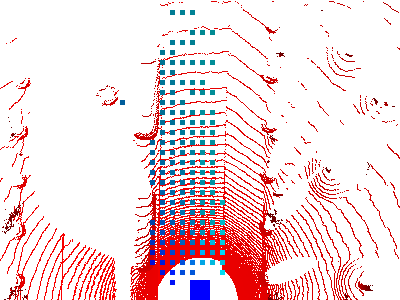
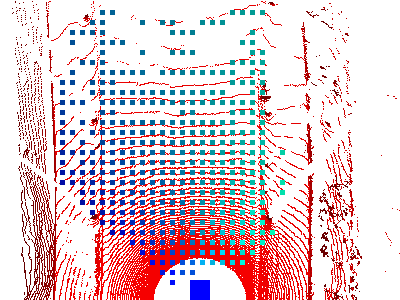
Adding Feature Copy Previous BEV Drivable Area Label for accurate Drivable Area Labelling

diff --git a/main.py b/main.py
@@ -31,6 +31,8 @@ import yaml
 
 from scipy.spatial.transform import Rotation as R
 
+#os.environ[ "QT_QPA_PLATFORM" ] = "offscreen"
+
 os.environ["QT_QPA_PLATFORM_PLUGIN_PATH"] = QLibraryInfo.location(
     QLibraryInfo.PluginsPath
 )
@@ -158,6 +160,10 @@ class Iwindow(QtWidgets.QMainWindow, gui):
         #self.fix_holes_DA_label_button.clicked.connect( self.fix_holes_drivable_area_label )
         self.generates_BEV_DA_Label_from_LiDAR.clicked.connect( self.generates_bev_DA_label_projected_to_lidar_pcd )
         self.save_Drivable_Area_label.clicked.connect( self.save_drivable_area_label )
+
+        self.copy_BEV_DA_Label_from_Previous_Frame.clicked.connect( self.copy_bev_drivable_area_label_from_previous_lidar_frame_label )
+        self.load_BEV_Drivable_Area_Label.clicked.connect( self.load_bev_drivable_area_label_from_folder )
+
         self.clear_all_attention_points_button.clicked.connect(self.delete_all_attention_points )
         self.zoom_plus.clicked.connect(self.image_viewer.zoomPlus)
         self.zoom_minus.clicked.connect(self.image_viewer.zoomMinus)
@@ -286,6 +292,8 @@ class Iwindow(QtWidgets.QMainWindow, gui):
 
                 self.previous_frame_drivable_area_image = self.bev_drivable_area_image
 
+                self.previous_frame_drivable_area_image_bev_label = self.bev_drivable_area_label
+
                 self.bev_drivable_area_previous_image_q_label_image_viewer.loadImageFromArray(self.previous_frame_drivable_area_image)
 
                 
@@ -325,6 +333,8 @@ class Iwindow(QtWidgets.QMainWindow, gui):
             if self.bev_drivable_area_image is not None :
                 self.previous_frame_drivable_area_image = self.bev_drivable_area_image
 
+                self.previous_frame_drivable_area_image_bev_label = self.bev_drivable_area_label
+
                 self.bev_drivable_area_previous_image_q_label_image_viewer.loadImageFromArray( self.previous_frame_drivable_area_image )
                 
             self.items[self.cntr].setSelected(True)
@@ -360,6 +370,8 @@ class Iwindow(QtWidgets.QMainWindow, gui):
 
         if self.bev_drivable_area_image is not None :
             self.previous_frame_drivable_area_image = self.bev_drivable_area_image
+
+            self.previous_frame_drivable_area_image_bev_label = self.bev_drivable_area_label
 
             self.bev_drivable_area_previous_image_q_label_image_viewer.loadImageFromArray( self.previous_frame_drivable_area_image )
 
@@ -1089,7 +1101,9 @@ class Iwindow(QtWidgets.QMainWindow, gui):
 
                 self.bev_drivable_area_image_in_rgb_image = new_image_drivable_area_probability_mask_rgb_image_DA_label
 
-                self.bev_drivable_area_label = np.array( [ [False if (( (i[0] == 0 ) & ( i[1] ==0 )) | ( i == [255,255,255]).all() ) else True for i in j ] for j in self.bev_drivable_area_image_in_rgb_image ] )
+                #self.bev_drivable_area_label = np.array( [ [False if (( (i[0] == 0 ) & ( i[1] ==0 )) | ( i == [255,255,255]).all() ) else True for i in j ] for j in self.bev_drivable_area_image_in_rgb_image ] )
+
+                self.bev_drivable_area_label = np.array( [ [False if (( (i[0] == 0 ) & ( i[1] ==0 )) | ( (i[0] > 0) & (i[1] < 255 ) ) | ( i == [255,255,255]).all() ) else True for i in j ] for j in self.bev_drivable_area_image_in_rgb_image ] )
 
                 self.bev_drivable_area_image_viewer.loadImageFromArray( self.bev_drivable_area_image )
                 
@@ -1139,7 +1153,7 @@ class Iwindow(QtWidgets.QMainWindow, gui):
 
                 self.bev_drivable_area_image_in_rgb_image = new_image_drivable_area_probability_mask_rgb_image_DA_label
 
-                self.bev_drivable_area_label = np.array( [ [False if ( ((i[0] == 0) & ( i[1] == 0)) | ( i == [ 255, 255 , 255])).all() else True for i in j ] for j in self.bev_drivable_area_image_in_rgb_image ] )
+                self.bev_drivable_area_label = np.array( [ [False if ( ((i[0] == 0) & ( i[1] == 0)) | (( i[0] > 0 ) & ( i[1] < 255 )) |( i == [ 255, 255 , 255]).all()) else True for i in j ] for j in self.bev_drivable_area_image_in_rgb_image ] )
 
                 self.bev_drivable_area_image_viewer.loadImageFromArray( self.bev_drivable_area_image )
                 
@@ -1165,7 +1179,104 @@ class Iwindow(QtWidgets.QMainWindow, gui):
             self.is_add_drivable_area_in_bev_drivable_area = False 
                      
 
-                 
+    def copy_bev_drivable_area_label_from_previous_lidar_frame_label( self ) :
+
+        if self.previous_frame_drivable_area_image_bev_label is None :
+
+            QtWidgets.QMessageBox.warning(self, 'Cannot Load Drivable Area Label from Previous LiDAR Frame', 'Please make sure Labelling BEV Drivable Area in previous LiDAR frame first' )
+
+        else :
+
+            self.bev_drivable_area_label = self.previous_frame_drivable_area_image_bev_label
+
+            bev_drivable_area_label_in_rgb_image = np.array( [[[ 0 , 255 , 0] if i == True else [ 255 , 255 , 255] for i in j  ] for j in self.bev_drivable_area_label ] ).astype( np.uint8)
+
+            # Visualize previous BEV DA Label to current LiDAR frame visualization
+
+            bev_drivable_area_label_in_lidar_point_visualization_size = cv2.resize( bev_drivable_area_label_in_rgb_image , dsize= ( self.bev_drivable_area_image.shape[1] , self.bev_drivable_area_image.shape[0]) , interpolation=cv2.INTER_NEAREST)
+
+            assert (bev_drivable_area_label_in_lidar_point_visualization_size.shape == self.bev_drivable_area_image.shape)#.all()
+
+            for bev_drivable_area_label_x_coordinate in range( self.bev_drivable_area_image.shape[0] ) :
+
+                for bev_drivable_area_label_y_coordinate in range( self.bev_drivable_area_image.shape[1] ) :
+
+                    if bev_drivable_area_label_in_lidar_point_visualization_size[ bev_drivable_area_label_x_coordinate ][ bev_drivable_area_label_y_coordinate ][0] == 255 :
+
+                        # Then the grid in BEV_Drivabel_Area_Label_X_Coordinate and BEV_Drivable_Area_Label_Y_Coordinate is not DA area
+
+                        bev_drivable_area_label_in_lidar_point_visualization_size[ bev_drivable_area_label_x_coordinate ][ bev_drivable_area_label_y_coordinate ] = self.bev_drivable_area_image[ bev_drivable_area_label_x_coordinate ][ bev_drivable_area_label_y_coordinate ]
+
+
+            self.bev_drivable_area_image = bev_drivable_area_label_in_lidar_point_visualization_size.astype( np.uint8 )
+
+            self.bev_drivable_area_image_viewer.loadImageFromArray( self.bev_drivable_area_image )
+
+            # Give notification finished predicting Drivable Area Label in Image
+            msg = QtWidgets.QMessageBox()
+            msg.setWindowTitle("Finish Copying BEV Drivable Area Label from Previous LiDAR Frame")
+            msg.setText("Succes copied BEV Drivable Area Label from Previous LiDAR Scene" )
+            msg.exec()
+
+
+    def load_bev_drivable_area_label_from_folder( self ) :
+
+        dir_folder_drivable_area_image = "/".join( self.folder.split("/")[ : -1]) + "/BEV_DA_Label_Result_" + str( self.folder.split("/")[-1] )
+
+        #os.makedirs( dir_folder_drivable_area_image , exist_ok= True )
+
+        #dir_drivable_area_image = dir_folder_drivable_area_image + "/" + self.logs[self.cntr]["path"].split("/")[-1]
+
+        name_of_BEV_DA_Label_Frame_dir = dir_folder_drivable_area_image + "/" + self.logs[self.cntr]["path"].split("/")[-1]
+
+        if os.path.exists( name_of_BEV_DA_Label_Frame_dir ) == False :
+
+            QtWidgets.QMessageBox.warning(self, 'Cannot Find BEV Drivable Area Label Image from Folder', 'Please make sure there is BEV Drivable Area Label in Folder ' + str( name_of_BEV_DA_Label_Frame_dir ))
+
+
+        else :
+            # The load BEV DA Label from BEV DA Labelling result folder
+
+            bev_DA_label_from_folder_image = 255 * plt.imread( name_of_BEV_DA_Label_Frame_dir )#.astype( bool )
+
+            bev_DA_label_from_folder_image = np.array( [[True if i[0] > 250 else False for i in j] for j in bev_DA_label_from_folder_image ] )
+
+            self.bev_drivable_area_label = bev_DA_label_from_folder_image #self.previous_frame_drivable_area_image_bev_label
+
+            #print( "BEV DA Label is : " + str( self.bev_drivable_area_label ) + " with BEV DA Label shape : " + str( self.bev_drivable_area_label.shape ) + " with maximum red value in RGB value : " + str( self.bev_drivable_area_label[ : , : , 0].max()))
+
+            bev_drivable_area_label_in_rgb_image = np.array( [[[ 0 , 255 , 0] if i == True else [ 255 , 255 , 255] for i in j] for j in self.bev_drivable_area_label ] ).astype( np.uint8 )
+
+            # Visualize previous BEV DA Label to current LiDAR frame visualization
+
+            bev_drivable_area_label_in_lidar_point_visualization_size = cv2.resize( bev_drivable_area_label_in_rgb_image , dsize= ( self.bev_drivable_area_image.shape[1] , self.bev_drivable_area_image.shape[0]) , interpolation=cv2.INTER_NEAREST)
+
+            assert (bev_drivable_area_label_in_lidar_point_visualization_size.shape == self.bev_drivable_area_image.shape)
+
+            for bev_drivable_area_label_x_coordinate in range( self.bev_drivable_area_image.shape[0] ) :
+
+                for bev_drivable_area_label_y_coordinate in range( self.bev_drivable_area_image.shape[1] ) :
+
+                    if bev_drivable_area_label_in_lidar_point_visualization_size[ bev_drivable_area_label_x_coordinate ][ bev_drivable_area_label_y_coordinate ][0] == 255 :
+
+                        # Then the grid in BEV_Drivabel_Area_Label_X_Coordinate and BEV_Drivable_Area_Label_Y_Coordinate is not DA area
+
+                        bev_drivable_area_label_in_lidar_point_visualization_size[ bev_drivable_area_label_x_coordinate ][ bev_drivable_area_label_y_coordinate ] = self.bev_drivable_area_image[ bev_drivable_area_label_x_coordinate ][ bev_drivable_area_label_y_coordinate ]
+
+
+            self.bev_drivable_area_image = bev_drivable_area_label_in_lidar_point_visualization_size.astype( np.uint8 )
+
+            self.bev_drivable_area_image_viewer.loadImageFromArray( self.bev_drivable_area_image )
+
+            # Give notification finished predicting Drivable Area Label in Image
+            msg = QtWidgets.QMessageBox()
+            msg.setWindowTitle("Finish Loading BEV Drivable Area Label from Folder")
+            msg.setText("Succes loaded BEV Drivable Area Label from Folder : " + str( name_of_BEV_DA_Label_Frame_dir ) )
+            msg.exec()
+
+
+
+
 
         
     def save_drivable_area_label(self) :
